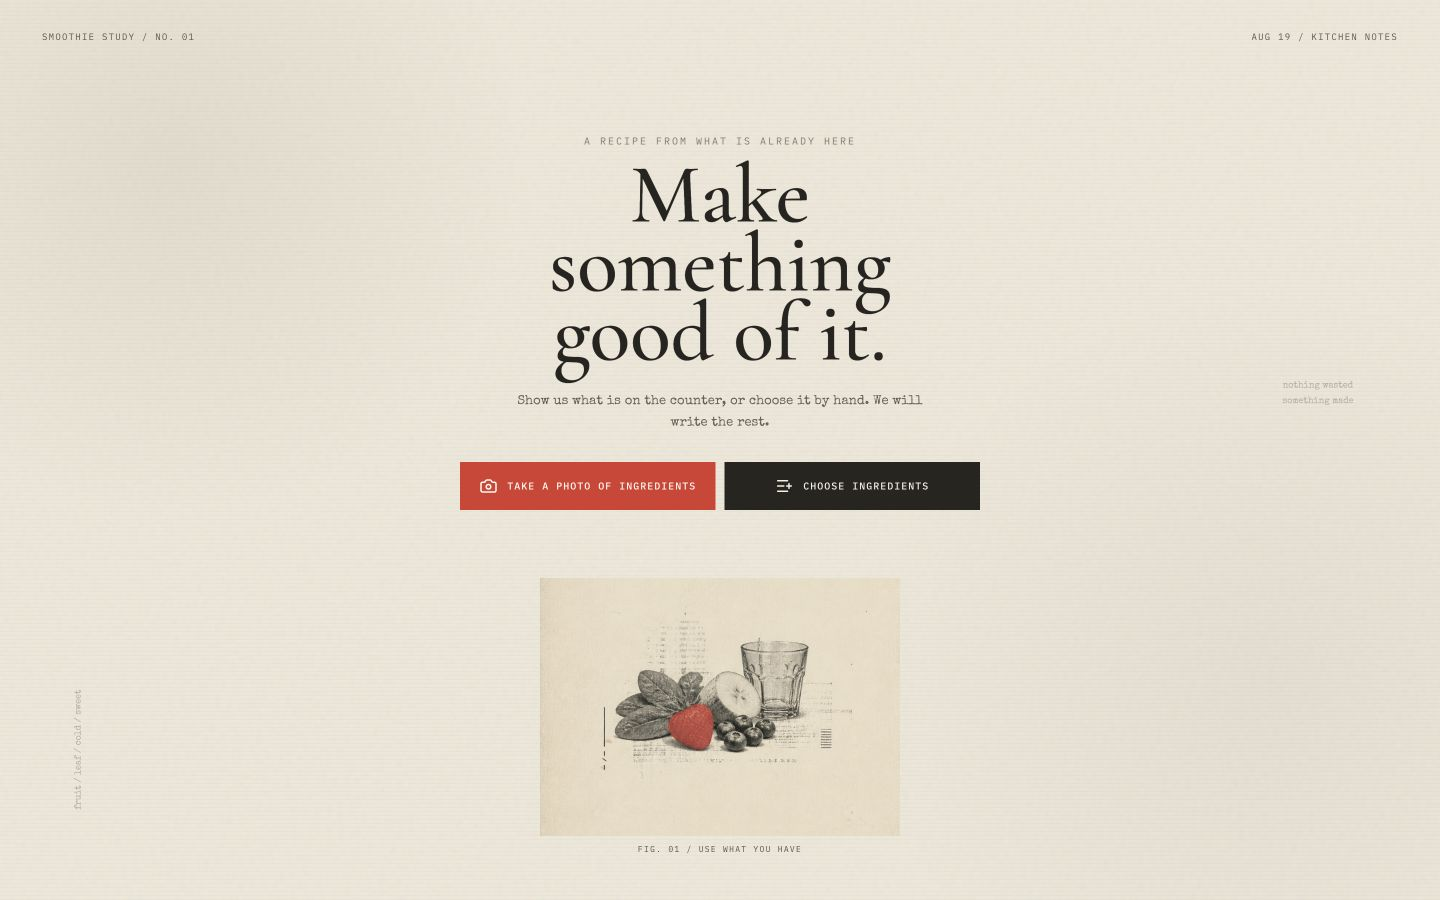
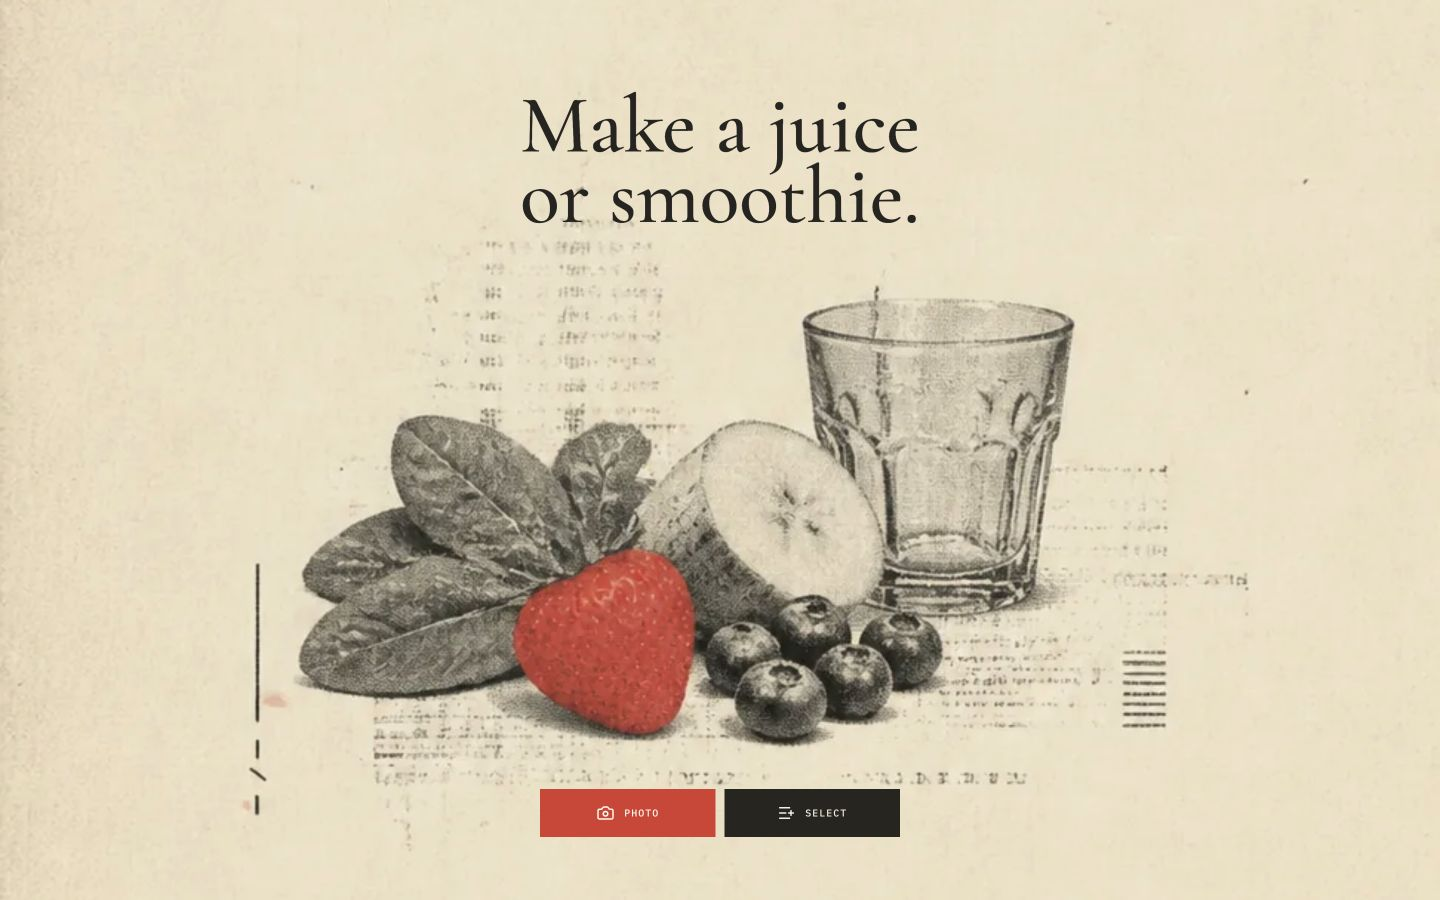
Simplify zine landing page

diff --git a/src/index.css b/src/index.css
@@ -82,7 +82,6 @@ button:disabled { cursor: not-allowed; }
   text-transform: uppercase;
 }
 
-.zine-masthead,
 .editor-header,
 .recipe-header {
   display: flex;
@@ -98,15 +97,23 @@ button:disabled { cursor: not-allowed; }
 .landing-page {
   position: relative;
   min-height: 100svh;
-  padding: 24px 20px 28px;
   overflow: hidden;
+  background-image: url('/assets/zine-produce-study.webp');
+  background-position: center 58%;
+  background-size: cover;
+  background-repeat: no-repeat;
 }
 
 .landing-copy {
   position: relative;
   z-index: 2;
-  width: min(100%, 520px);
-  margin: 14svh auto 0;
+  display: flex;
+  min-height: 100svh;
+  flex-direction: column;
+  align-items: center;
+  justify-content: space-between;
+  width: 100%;
+  padding: 12svh 20px 8svh;
   text-align: center;
 }
 
@@ -122,24 +129,15 @@ button:disabled { cursor: not-allowed; }
 }
 
 .landing-copy h1 {
-  font-size: clamp(48px, 14vw, 84px);
-  line-height: 0.82;
-}
-
-.landing-intro {
-  width: min(100%, 430px);
-  margin: 24px auto 0;
-  color: #656054;
-  font-family: 'Special Elite', serif;
-  font-size: 13px;
-  line-height: 1.65;
+  font-size: clamp(54px, 15vw, 82px);
+  line-height: 0.86;
 }
 
 .landing-actions {
   display: grid;
+  grid-template-columns: 1fr 1fr;
   gap: 9px;
-  width: min(100%, 390px);
-  margin: 28px auto 0;
+  width: min(100%, 320px);
 }
 
 .zine-button {
@@ -169,31 +167,6 @@ button:disabled { cursor: not-allowed; }
 .zine-button--accent { border-color: var(--accent); background: var(--accent); color: #fffaf0; }
 .zine-button--ink { background: var(--ink); color: var(--paper-light); }
 .zine-button--paper { background: rgba(246, 240, 226, 0.65); color: var(--ink); }
-
-.landing-study {
-  width: min(76vw, 330px);
-  margin: 30px auto 0;
-  text-align: center;
-}
-
-.landing-study img {
-  display: block;
-  width: 100%;
-  aspect-ratio: 3 / 2.15;
-  object-fit: cover;
-  object-position: 50% 67%;
-  filter: contrast(0.96) saturate(0.9);
-  mix-blend-mode: multiply;
-}
-
-.landing-study figcaption {
-  margin-top: 7px;
-  color: #59554b;
-  font-size: 8px;
-  letter-spacing: 0.16em;
-}
-
-.margin-note { display: none; }
 
 .editor-page,
 .capture-page,
@@ -461,13 +434,8 @@ button:disabled { cursor: not-allowed; }
 .recipe-footer > span { color: var(--faded); font-size: 7px; letter-spacing: 0.12em; }
 
 @media (min-width: 700px) {
-  .landing-page { padding: 30px 42px; }
-  .landing-copy { margin-top: 12svh; }
-  .landing-actions { grid-template-columns: 1fr 1fr; width: min(100%, 620px); }
-  .landing-study { width: 360px; margin-top: 32px; }
-  .margin-note { position: absolute; display: block; margin: 0; color: rgba(70, 65, 56, 0.34); font-family: 'Special Elite', serif; font-size: 9px; line-height: 1.7; }
-  .margin-note--left { left: 6vw; bottom: 10vh; transform: rotate(-90deg); transform-origin: left bottom; }
-  .margin-note--right { right: 6vw; top: 42vh; }
+  .landing-copy { padding: 10svh 42px 7svh; }
+  .landing-actions { width: min(100%, 360px); }
   .editor-page, .capture-page, .recipe-page { padding: 26px 38px 36px; }
   .ingredient-ledger { grid-template-columns: 1fr 1fr; }
   .ingredient-row:nth-child(odd) { border-right: 1px solid var(--hairline); }
@@ -480,11 +448,6 @@ button:disabled { cursor: not-allowed; }
   .recipe-method { grid-column: 2; }
   .recipe-footer { flex-direction: row; align-items: center; justify-content: space-between; }
   .recipe-footer .zine-button { width: 220px; }
-}
-
-@media (min-width: 1100px) {
-  .landing-copy { margin-top: 10svh; }
-  .landing-study { position: absolute; left: 50%; bottom: 5vh; margin: 0; transform: translateX(-50%); }
 }
 
 @media (prefers-reduced-motion: reduce) {

diff --git a/src/components/ZineLanding.tsx b/src/components/ZineLanding.tsx
@@ -8,37 +8,20 @@ type Props = {
 export function ZineLanding({ onPhoto, onChoose }: Props) {
   return (
     <section className="landing-page">
-      <header className="zine-masthead">
-        <span>SMOOTHIE STUDY / NO. 01</span>
-        <span>AUG 19 / KITCHEN NOTES</span>
-      </header>
-
       <div className="landing-copy">
-        <p className="zine-kicker">A recipe from what is already here</p>
-        <h1>Make something<br />good of it.</h1>
-        <p className="landing-intro">
-          Show us what is on the counter, or choose it by hand. We will write the rest.
-        </p>
+        <h1>Make a juice<br />or smoothie.</h1>
 
         <div className="landing-actions" aria-label="Start a smoothie recipe">
           <button type="button" className="zine-button zine-button--accent" onClick={onPhoto}>
             <Camera aria-hidden="true" size={18} />
-            Take a photo of ingredients
+            Photo
           </button>
           <button type="button" className="zine-button zine-button--ink" onClick={onChoose}>
             <ListPlus aria-hidden="true" size={18} />
-            Choose ingredients
+            Select
           </button>
         </div>
       </div>
-
-      <figure className="landing-study" aria-hidden="true">
-        <img src="/assets/zine-produce-study.webp" alt="" />
-        <figcaption>FIG. 01 / USE WHAT YOU HAVE</figcaption>
-      </figure>
-
-      <p className="margin-note margin-note--left">fruit / leaf / cold / sweet</p>
-      <p className="margin-note margin-note--right">nothing wasted<br />something made</p>
     </section>
   )
 }

diff --git a/design-qa.md b/design-qa.md
@@ -9,11 +9,11 @@
 - Source dimensions: 972 x 1619 px
 - Mobile implementation: 375 x 812 CSS px, 375 x 812 px capture, device scale factor 1
 - Desktop implementation: 1440 x 900 CSS px, 1440 x 900 px capture, device scale factor 1
-- State: production landing page, manual ingredient flow, photo review, and completed recipe
+- State: simplified production landing page, manual ingredient flow, photo review, and completed recipe
 
 ## Full-View Comparison
 
-The combined comparison shows the reference and mobile implementation at the same 812 px height. Both use an ivory scanned-paper field, a small central visual cluster, restrained typewriter microcopy, a single saturated ink accent, and large areas of quiet negative space. The product necessarily introduces two primary actions, but their compact rectangular treatment stays inside the reference's print grammar rather than becoming conventional rounded app cards.
+The combined comparison shows the supplied artwork and mobile implementation at the same 812 px height. The artwork now fills the viewport directly, preserving the ivory paper field, central produce cluster, red fruit anchor, and negative space. The only interface copy is the requested title and the two compact actions, keeping the landing page materially as quiet as the source.
 
 ## Focused Evidence
 
@@ -27,12 +27,13 @@ The combined comparison shows the reference and mobile implementation at the sam
 - Spacing and layout rhythm: the primary cluster stays centered with broad paper margins. Mobile controls remain within 335 px, while desktop content holds a restrained 520-620 px working width.
 - Colors and tokens: warm ivory paper, charcoal ink, faded gray metadata, and one tomato-red action/selection color match the reference's restrained palette logic.
 - Image quality and asset fidelity: the generated produce study is a real raster asset with halftone, xerox wear, aged paper, and a visible red fruit anchor. It is correctly cropped at mobile and desktop sizes.
-- Copy and content: product language is brief, concrete, and embedded in the composition. No instructional marketing block or obsolete kitchen/glass copy remains.
+- Copy and content: the landing page contains only “Make a juice or smoothie.”, “Photo”, and “Select”. Header metadata, side notes, caption, kicker, and descriptive paragraph are absent.
 
 ## Comparison History
 
 - P2: ingredient rows initially exposed a list-item role instead of their interactive button semantics. Removed the conflicting role, rebuilt, redeployed, and verified search, selection, and confirmation through role-based browser interaction.
 - P2: the first mobile capture occurred before the 4.5 MB visual anchor finished decoding. Re-captured after load and confirmed the final implementation screenshot includes the produce study with stable reserved dimensions.
+- P2: the first landing direction contained substantially more editorial copy and treated the produce study as an inset figure. Replaced it with the artwork as a full-viewport background and reduced the visible interface to one title and two actions. Mobile and desktop captures confirm the cluster remains visible without overflow.
 
 ## Findings
 
